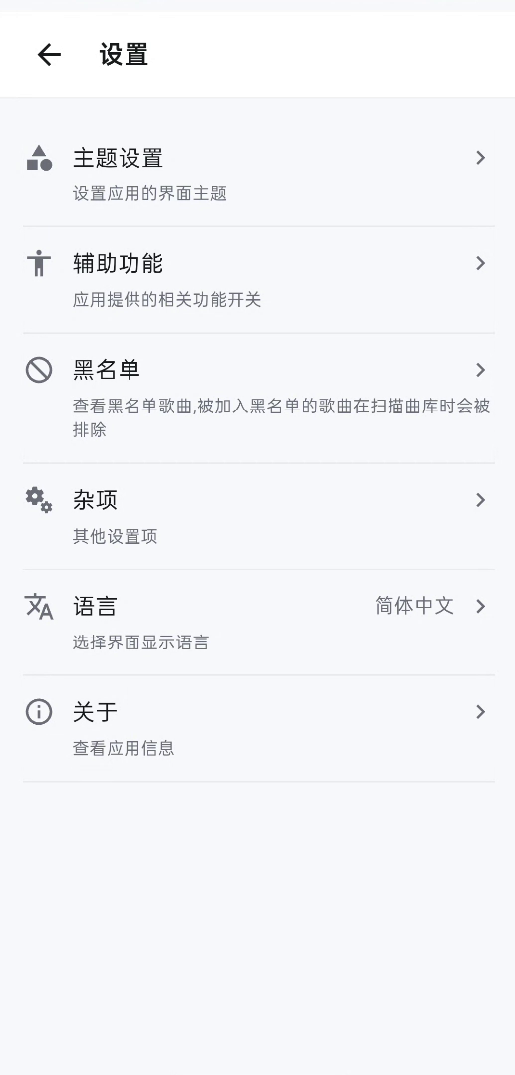
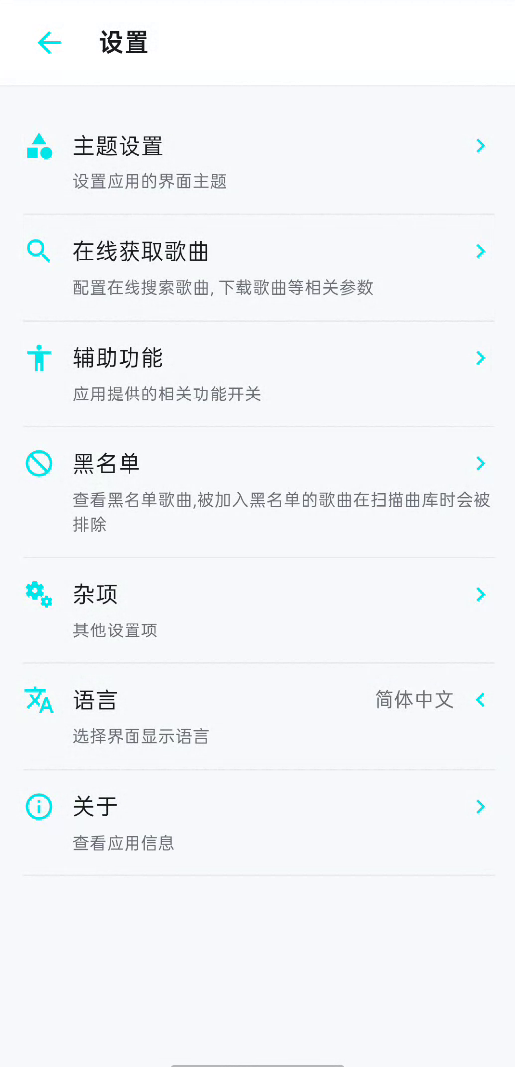
docs(readme): 更新文档

diff --git a/README.md b/README.md
@@ -4,7 +4,7 @@
 
 [🇨🇳 中文](./docs/chinese/README.md)
 
-A smooth, minimalist music player built for Android. Built with Ionic Vue and Capacitor, it supports offline playback of local audio files, providing a clean playback experience, lock screen media controls, and comprehensive background playback capabilities.
+A smooth, minimalist music player built for Android. Developed with Ionic Vue and Capacitor, it supports offline playback of local audio files as well as online streaming and downloading (powered by a [`musicdl`-based backend](https://github.com/Skrepy0/Melodio-Backend)). It offers a clean listening experience, lock-screen media controls, and comprehensive background playback capabilities.
 
 ## 📱 System Requirements
 
@@ -23,6 +23,8 @@ A smooth, minimalist music player built for Android. Built with Ionic Vue and Ca
 
 - **Local Music Scanning** – Automatically scans audio files on device storage, supports FLAC, MP3, AAC, WAV, OGG and other mainstream formats
 - **Native Playback Engine** – Custom Capacitor plugin utilizing Android MediaPlayer + MediaSession for stable and smooth playback
+- **Online search** – Fetch online song data via backend requests, with support for multiple music sources.
+- **Download management** – Manage songs currently being downloaded, with the ability to pause downloads and view download history.
 - **Background Playback** – Continues playing even when the app is in the background, with full media controls in the notification shade
 - **Lock Screen / Notification Controls** – Displays cover art, track info, progress bar; supports play/pause, previous/next, and seek
 - **Playback Speed** – One‑tap speed toggle (0.5x ~ 2.0x) on the player screen
@@ -34,6 +36,19 @@ A smooth, minimalist music player built for Android. Built with Ionic Vue and Ca
 - **Queue Management** – Add to queue, play next, or remove from queue
 - **Drag‑and‑Drop Sorting** – Long‑press and drag to reorder the queue
 - **Clear Queue** – One‑tap to clear the entire playback queue
+
+### Online Search
+
+<div style="display: flex; justify-content: center; flex-wrap: wrap; gap: 12px; margin-bottom: 20px;">
+  <div>
+    <img src="../images/7.png" width="180" alt="Online Search" />
+    <p><em>Online Search</em></p>
+  </div>
+  <div>
+    <img src="../images/8.png" width="180" alt="Download management" />
+    <p><em>Download management</em></p>
+  </div>
+</div>
 
 ### 🎤 Playlist System
 

diff --git a/docs/chinese/README.md b/docs/chinese/README.md
@@ -2,7 +2,7 @@
 
 [![License](https://img.shields.io/badge/License-Apache%202.0-pink.svg)](LICENSE) [![Android](https://img.shields.io/badge/Platform-Android-3DDC84?logo=android)](https://developer.android.com) ![Min SDK](<https://img.shields.io/badge/Min%20SDK-24%20(Android%207.0)-green>)
 
-一个流畅、简洁的音乐播放器，专为 Android 打造。基于 Ionic Vue 和 Capacitor 构建，支持离线播放本地音频文件，提供清爽的播放体验、锁屏媒体控件以及完善的后台播放能力。
+一个流畅、简洁的音乐播放器，专为 Android 打造。基于 Ionic Vue 和 Capacitor 构建，支持离线播放本地音频文件，也支持在线播放和下载音乐(通过基于`musicdl`的[后端](https://github.com/Skrepy0/Melodio-Backend))，提供清爽的播放体验、锁屏媒体控件以及完善的后台播放能力。
 
 ## 📱 适配系统
 
@@ -21,6 +21,8 @@
 
 - **本地音乐扫描** – 自动扫描设备存储中的音频文件，支持 FLAC、MP3、AAC、WAV、OGG 等主流格式
 - **原生播放引擎** – 通过自定义 Capacitor 插件调用 Android MediaPlayer + MediaSession，实现稳定流畅的播放体验
+- **在线搜索** - 通过后端请求获取在线歌曲数据，支持从多种不同的音乐源获取
+- **下载管理** - 管理正在下载中的歌曲, 支持暂停下载, 查看下载记录
 - **后台播放** – 即使应用退到后台也能持续播放，通知栏提供完整的媒体控制
 - **锁屏/通知栏控件** – 显示封面、歌曲信息、进度条，支持播放/暂停、上一首/下一首、拖动进度
 - **倍速播放** – 播放器界面一键切换播放速率（0.5x ~ 2.0x）
@@ -84,6 +86,19 @@
   <div>
     <img src="../images/5.png" width="180" alt="歌单排序" />
     <p><em>歌单排序</em></p>
+  </div>
+</div>
+
+### 在线搜索
+
+<div style="display: flex; justify-content: center; flex-wrap: wrap; gap: 12px; margin-bottom: 20px;">
+  <div>
+    <img src="../images/7.png" width="180" alt="在线搜索" />
+    <p><em>在线搜索</em></p>
+  </div>
+  <div>
+    <img src="../images/8.png" width="180" alt="下载管理" />
+    <p><em>下载管理</em></p>
   </div>
 </div>
 
